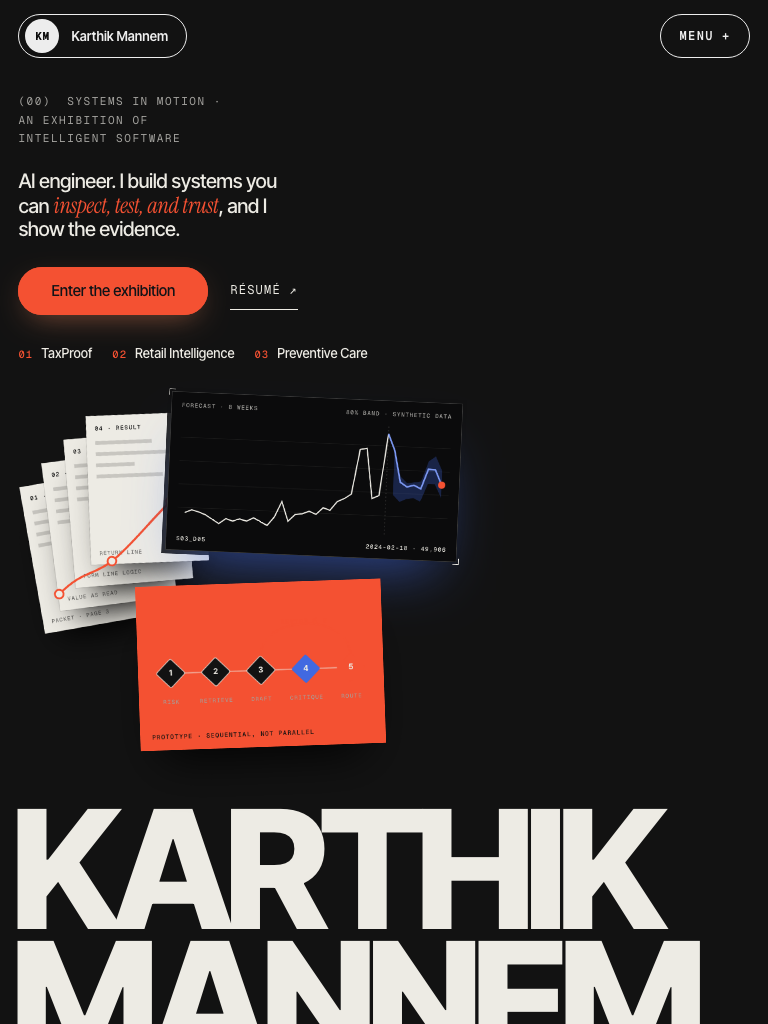
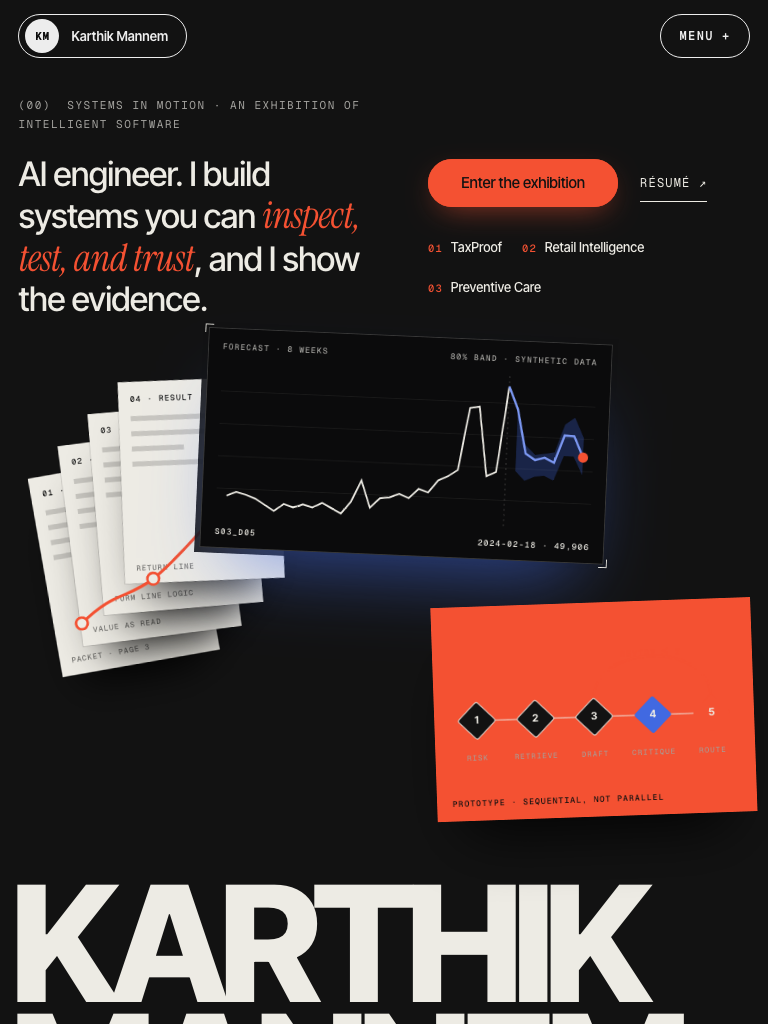
docs: milestone 2 record (gallery, full-screen exhibits, Diff Review, Lightbox, archive, tablet), verification, measurements and honest gaps; refresh screenshots
Screenshots regenerated from the production build at 1440, 1024, 768 and 390, plus a side-by-side with the Marlow reference.

diff --git a/app/exhibit/gallery/Overlay.tsx b/app/exhibit/gallery/Overlay.tsx
@@ -165,7 +165,7 @@ export default function Overlay({ index, opener: openerProp, getRect, onClosed }
     if (r && !rm) await animate(el, { top: r.top, left: r.left, width: r.width, height: r.height }, { duration: 0.5, ease: [0.22, 1, 0.36, 1] });
     (openerProp.current as HTMLElement | null)?.focus?.();
     onClosed();
-  }, [getRect, onClosed, rm]);
+  }, [getRect, onClosed, rm, openerProp]);
 
   useEffect(() => {
     const key = (e: KeyboardEvent) => {

diff --git a/docs/EXHIBITION_REDESIGN.md b/docs/EXHIBITION_REDESIGN.md
@@ -21,7 +21,8 @@ Branch `redesign/exhibition`. Nothing here is merged or deployed. The previous d
 | Kokonut UI | AI Agent Lanes (customised) | `/work/preventive-care` | Used (earlier round) |
 | Kokonut UI | Slide Text Button | Hero call to action | Used |
 | Kokonut UI | Scroll Index | Installed; no longer on the homepage (the brief limits it to long case studies) | Installed, not placed on a case page yet |
-| Kokonut UI | AI Diff Review, Lightbox Grid | Installed, read | **Not integrated.** Code Evolution still uses my own diff viewer from the earlier round |
+| Kokonut UI | AI Diff Review (patched: `readOnly`, `defaultOpen`) | Code Evolution, Change and Validation stages and the expanded view, fed by the real GitHub hunks | Used. Every accept, reject, undo and bulk control is removed so nothing implies a write to GitHub |
+| Kokonut UI | Lightbox Grid | "The real screens" under the gallery: three flagship screenshots and the SplitWise poster | Used |
 | Kokonut UI | Split Nav, Extruded Text | Pro (paid). Not copied | I built an original split-capsule navigation instead |
 | Motion | springs, drag with constraints, layoutId, AnimatePresence, scroll | Hero artifacts, gallery index and exhibit transitions, nav, game screens and results | Used |
 | Anime.js | timeline, drawable | TaxProof explorer wires (earlier round); game time-reset sweep, door and flash | Used |
@@ -71,3 +72,59 @@ Desktop, unthrottled: LCP 120 ms (`/`), 84 ms (`/play`). These are single cold l
 - `/api/chat` and `/api/contact` remain but nothing on the site calls them now.
 - Not tested: Safari, a physical touch device, a screen reader, a full keyboard-only pass of the homepage (the gallery has arrow, Home and End keys and the game is fully keyboard-playable, but I did not drive the homepage with the keyboard), sound.
 - The game has no audio files: sound is tiny oscillator effects behind an off-by-default toggle.
+
+---
+
+## Milestone 2: the flagship gallery and full-screen exhibits
+
+Branch `redesign/exhibition` (pushed; not merged or deployed).
+
+**Gallery** (`app/exhibit/Gallery.tsx`, `app/exhibit/gallery/*`). A depth coverflow on a soft-grey floor: the active exhibit is large, sharp and interactive; the other two turn away, recede, dim and blur, and a click on the visible part of one brings it forward (the index is also a keyboard tablist: arrows, Home, End). Three working miniature applications, each with its own identity:
+
+| Exhibit | What you can do in the miniature | Opens into |
+|---|---|---|
+| TaxProof (paper workpaper) | Pick a return line; Anime.js draws the original pages, the values read, the rule and the result from the real mileage lineage. The duplicated page 3 is flagged | The flippable dossier (Kokonut Page Flip) and the full evidence explorer |
+| Retail (ink instrument) | Choose among 7 real series, change the range, toggle the 80% band, hover or arrow through weeks; error by model; the 74.2% vs 80% coverage | Forecasting Observatory: the Bklit chart dominant under three metrics (7.9%, 154 of 240, 74.2% shown against its 80% target) |
+| Preventive Care (blue editor) | Select any of the five real stages; choose a sample patient (real computed risk); replay one pass through the real router under three critic scenarios | Agent Theatre: five large stage modules, replay, the real LoopSim, and the four limitations |
+
+Each overlay grows from the on-screen rectangle of the window that opened it and shrinks back to wherever that window is; focus is trapped, the page is locked, Escape closes and returns focus to the button that opened it.
+
+**What the pages do not do.** The Theatre runs only the risk arithmetic and the router. It shows no retrieved passages, drafts, critic text or medical recommendations, and says so on every stage module. The TaxProof miniature follows selected lineages only; the dossier does not follow the line selected in the miniature (Page Flip has no controlled page API).
+
+**Work Archive** `/work/archive`: Woodlands IMS, SplitWise Pro, Fake Currency Detection, the Netflix recommender and the BERT length predictor, read from `resume.ts`, with real GitHub and demo links and no link where none exists. "Explore all projects" sits under the gallery.
+
+**Tablet.** 1024: the installation is scaled as one piece and every link is clear of the artwork. 768: the copy runs in two columns and the three artifacts cascade across the full width on a diagonal.
+
+**Case studies.** They inherit the new type and colours through the tokens, and hard-coded old copper, slate and ivory values in their panels and charts were migrated. They keep their original all-dark layouts, which is the main remaining inconsistency with the ink and paper rhythm of the homepage.
+
+### Verification
+
+`tsc` clean, `eslint` 0 errors (1 existing warning), 38 tests pass, production build (`/work/archive` is static), résumé sync passes.
+
+Real browser input over the DevTools protocol, run against the production server:
+- Gallery, 28 checks, all pass: arrow, Home and End keys on the index with focus following; clicking a receding window; only the active window interactive; the TaxProof line change (result $8,260 and rule R-STANDARD-MILEAGE); Retail series choice and arrow-key week reading; the "never passes" replay reaching the revision cap; overlay dialog, scroll lock, initial focus, Tab trapped, Escape closing and focus returning to the opener; at 390px one exhibit at a time, no horizontal overflow, selector targets 75px, controls at least 32px, the theatre opening and closing; reduced motion; zero console errors in desktop, phone and reduced-motion runs.
+- ECHO//SHIFT regression, 17 of 17 pass (keyboard, saved progress, replay, share, hazard death, daily, touch, reduced motion).
+
+Bugs the checks found, now fixed: reduced motion caused a React hydration mismatch (Motion's hook reports the client value on first render); the overlay recorded its opener after the lazy module loaded, so focus returned to the wrong element; a CSS rule I added disabled pointer events on the click-to-bring-forward veil.
+
+Performance (production build, headless Chrome on this Mac, cold cache, 390px, 4x CPU, 1.6 Mbps, 150 ms RTT):
+
+| Page | FCP / LCP | CLS | JS up front | Slowest real event |
+|---|---|---|---|---|
+| `/` | 1.76 s | 0 | 377 KB | 40 ms (project tab), 24 ms (opening the dossier overlay) |
+| `/work/archive` | 1.53 s | 0 | 378 KB | none |
+| `/play` | 1.50 s | 0 | 473 KB | none |
+
+Desktop, unthrottled: LCP 100 ms, CLS 0.015. The overlay code (Bklit, the dossier, the explorer) loads when an exhibit is opened and is not in the up-front figure. Single cold loads and one interaction each: not Lighthouse and not a true INP.
+
+### Visual comparison
+
+`docs/screenshots/compare-marlow-vs-gallery.png` sets Marlow's selected work beside this gallery. Marlow's covers are polished product-mockup objects on coloured grounds, all in view at once. Mine are denser, working data interfaces in depth: more interactive, less graphic. Tablet and phone captures: `exhibition-hero-{1440,1024,768,390}.png`, `gallery-retail-390.png`, `overlay-theatre-390.png`.
+
+### Not done, or not verified
+
+- The gallery is a coverflow of working applications, not Marlow-style graphic covers. A graphic cover state for the inactive windows would make the three feel more like objects.
+- The dossier does not sync with the line selected in the TaxProof miniature.
+- Case-study pages still use their original layouts (all dark).
+- Not tested: Safari, a physical touch device, a screen reader. The homepage was driven by keyboard in the gallery and overlays only, not end to end.
+- The coverflow blurs and transforms are CSS and Motion; no frame-rate measurement was made on a real mid-range phone.
